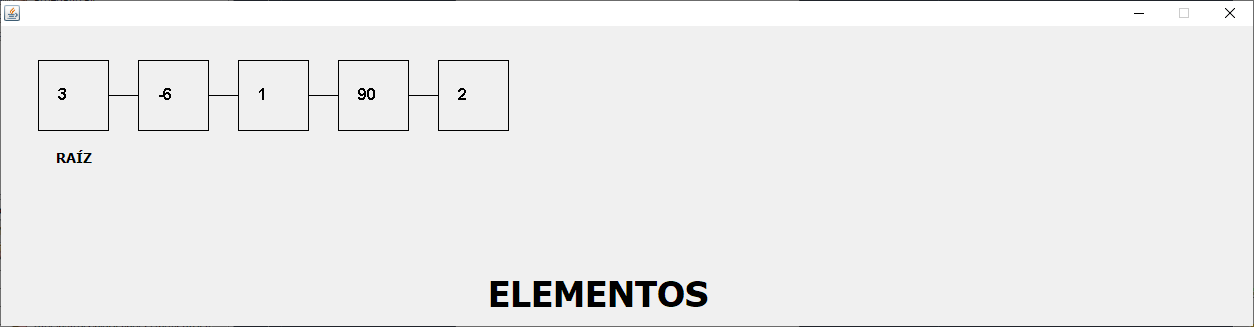
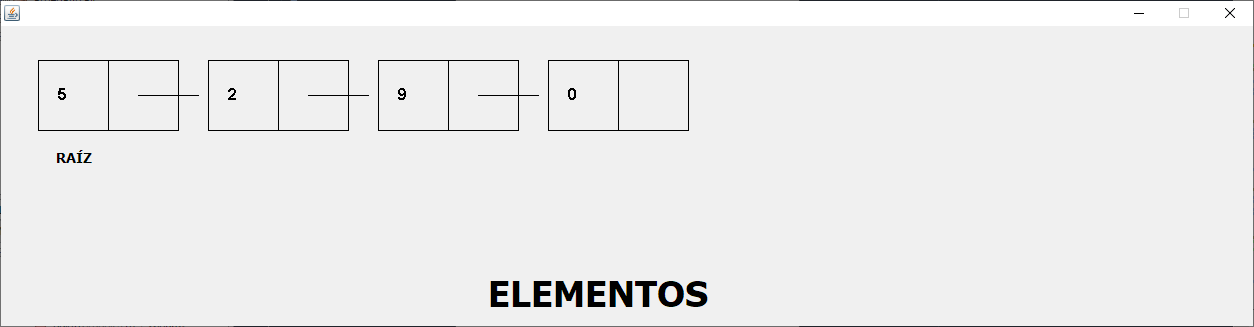
Versión 1.0 terminada

diff --git a/src/listaenlazada/proyecto/Grafico.java b/src/listaenlazada/proyecto/Grafico.java
@@ -85,41 +85,50 @@ public class Grafico extends javax.swing.JFrame {
       public void paint(Graphics g){
             super.paint(g);
             
+            //coordenadas de los cuadros y líneas
             int rectX = 40;
             int stringX = 60;
-            int lineX = 110;
-            int lineY = 140;
+            int lineX = 140;
+            int lineNodoX = 110;
+            int lineNodoY = 200;
             //fuente
             g.setFont(new Font("default", Font.BOLD, 16));
             
             g.setColor(Color.BLACK);
-            g.drawRect(rectX, 60, 70, 70);
+            g.drawRect(rectX, 60, 70, 70); //cuadro de dato
+            //nodo apuntador
+            g.drawRect(lineNodoX, 60, 70, 70);
+            //dato que mostrará el nodo
             g.drawString(String.valueOf(nodo.data), stringX, 100);
             
             //si no hay siguiente nodo, no se dibuja la línea
             if(nodo.siguiente != null)
-              g.drawLine(lineX, 95,lineY, 95);  
+              g.drawLine(lineX, 95,lineNodoY, 95);  
             
             
             while(nodo.siguiente != null){
-                rectX = rectX+100;
-                stringX = stringX+100;
-                lineX = lineX+100;
-                lineY = lineY+100;
+                rectX += 170;   //se aumentan los valores para cambiar las coordenadas
+                stringX += 170;
+                lineX += 170;
+                lineNodoX += 170;
+                lineNodoY += 170;
                 
                 g.setColor(Color.BLACK);
                 //medidas y ubicación del rectángulo
                 g.drawRect(rectX, 60, 70, 70);
+                //nodo apuntador
+                g.drawRect(lineNodoX, 60, 70, 70);
                 //ubicación del dato que va dentro del cuadro
                 g.drawString(String.valueOf(nodo.siguiente.data), stringX, 100);
                 
                 //si no hay nodo siguiente no se dibuja la línea
                 if(nodo.siguiente.siguiente != null)
-                    g.drawLine(lineX, 95,lineY, 95); 
+                    g.drawLine(lineX, 95,lineNodoY, 95); 
                 
                 nodo = nodo.siguiente;
             }
-    }
+        }
+    
     /**
      * @param args the command line arguments
      */

diff --git a/src/listaenlazada/proyecto/Funciones.java b/src/listaenlazada/proyecto/Funciones.java
@@ -37,44 +37,51 @@ public class Funciones {
   //método para borrar un elemento
   public String eliminar(int index)
   {
+    //Nodo temporal que albargará el nodo a eliminar
+      Nodo nodoEliminar = null;
+
     //si el índice es 0, el nodo siguiente pasa a ser la raíz
     if(index == 0)
     {
+      nodoEliminar = head; //se obtiene el nodo a eliminar para retornarlo
       head = head.siguiente;
+      return String.valueOf(nodoEliminar.data);
     }
     else
     {
       Nodo nodo = head; //raiz
-      Nodo nodoEliminar = null;
       
-      //se recorre la lista de nodos
-      for(int i=0;i<index-1;i++)
-      {
-        nodo = nodo.siguiente;
+      try{
+          //se recorre la lista de nodos
+          for (int i = 0; i < index - 1; i++) {
+              nodo = nodo.siguiente;
+          }
+          //se busca el nodo que está antes del que queremos eliminar
+          //luego lo ponemos a apuntar al nodo después del que queremos eliminar
+          nodoEliminar = nodo.siguiente;
+          nodo.siguiente = nodoEliminar.siguiente;
+          //devuelve el nodo con el valor a eliminar
+          return String.valueOf(nodoEliminar.data);
       }
-      //se busca el nodo que está antes del que queremos eliminar
-      //luego lo ponemos a apuntar al nodo después del que queremos eliminar
-      nodoEliminar = nodo.siguiente;
-      nodo.siguiente = nodoEliminar.siguiente;
+      catch(Exception e){
+          return null; //si el índice no existe devuelve null
+      }
       
-      return String.valueOf(nodoEliminar.data);
     }
-    //si el índice no existe retorna null
-    return null;
   }
   
-  //método para mostrar todos los elementos
-  public void mostrarTodos()
-  {
-    Nodo nodo = head;
-    
-    while(nodo.siguiente != null)
-    {
-      System.out.println(nodo.data);
-      nodo = nodo.siguiente;
-    }
-    System.out.println(nodo.data);
-  }
+//  //método para mostrar todos los elementos - DEBUGGING
+//  public void mostrarTodos()
+//  {
+//    Nodo nodo = head;
+//    
+//    while(nodo.siguiente != null)
+//    {
+//      System.out.println(nodo.data);
+//      nodo = nodo.siguiente;
+//    }
+//    System.out.println(nodo.data);
+//  }
   
   //MOSTRAR ELEMENTO DEL ÍNDICE INDICADO
   public String mostrarEn(int indice)

diff --git a/src/listaenlazada/proyecto/Principal.java b/src/listaenlazada/proyecto/Principal.java
@@ -186,7 +186,6 @@ public class Principal extends javax.swing.JFrame {
             
             //inserta el elemento en la cola
             String dato = fn.mostrarEn(numero);
-            fn.mostrarTodos();
             
             if(dato != null)
                 JOptionPane.showMessageDialog(null, "El valor del índice consultado es: " + dato);
@@ -206,9 +205,8 @@ public class Principal extends javax.swing.JFrame {
             //se convierte a entero
             int numero = Integer.parseInt(num);
             
-            //inserta el elemento en la cola
+            //elimina el elemento en la cola
             String dato = fn.eliminar(numero);
-            fn.mostrarTodos();
             
             if(dato != null)
                 JOptionPane.showMessageDialog(null, "El valor del índice eliminado es: " + dato);
